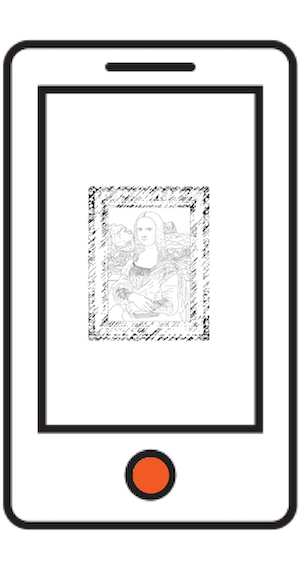
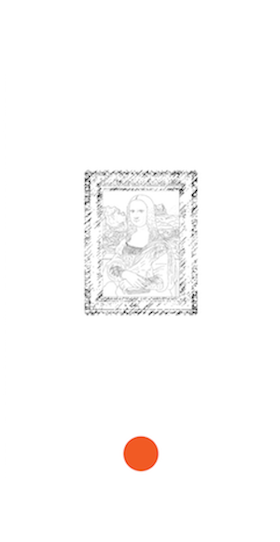
expertise + quote

Changed region(s): [[0.0, 0.059, 1.0, 0.9151], [0.2857, 0.2952, 0.7143, 0.5904]]

diff --git a/particle_dark/index.html b/particle_dark/index.html
@@ -410,7 +410,7 @@ the data-spy and data-target are part of the built-in Bootstrap scrollspy functi
 <!-- Image Section
 ================================================== -->
 <section id="big-image" class="image-service">
-  <div class="container-fluid">
+  <div class="container-fluid" style="margin-top: 16em;">
 
       <div class="row">
 

diff --git a/particle_dark/assets/css/custom/theme.css b/particle_dark/assets/css/custom/theme.css
@@ -4645,5 +4645,6 @@ body > section.portfolio-item > div.container-fluid > div > div > div > div.cont
 }
 
 #services{
-  height: 685px;
+  height: 657px;
+  padding-left: 11px;
 }
